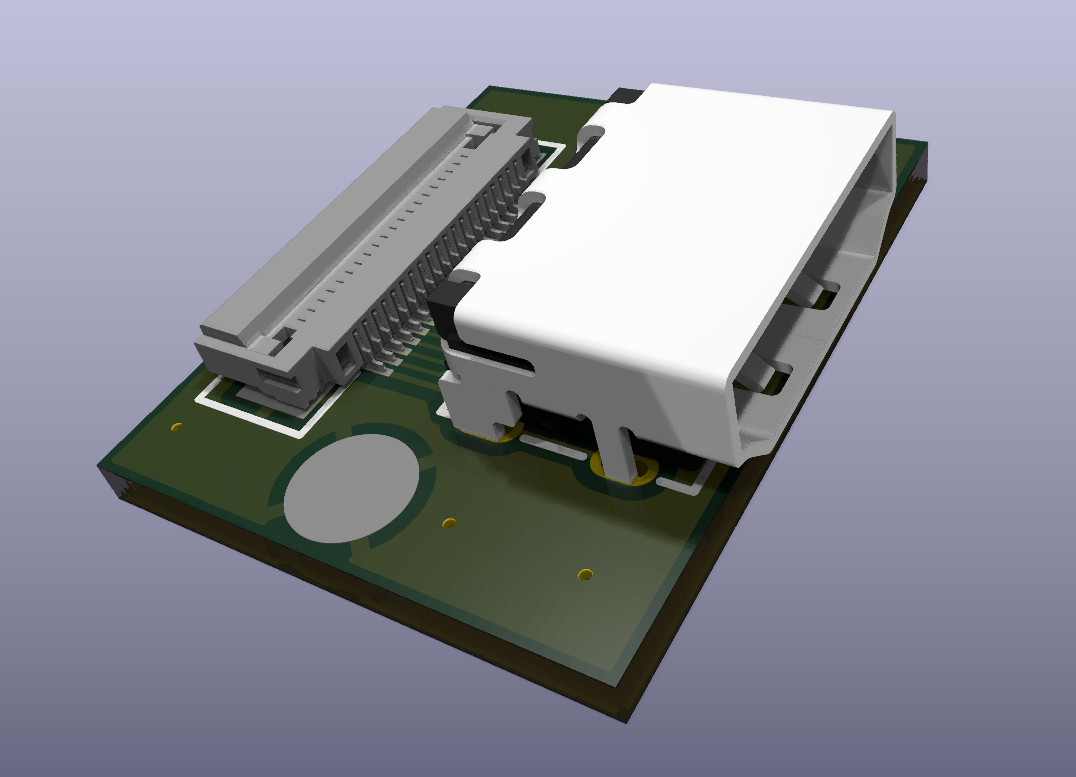
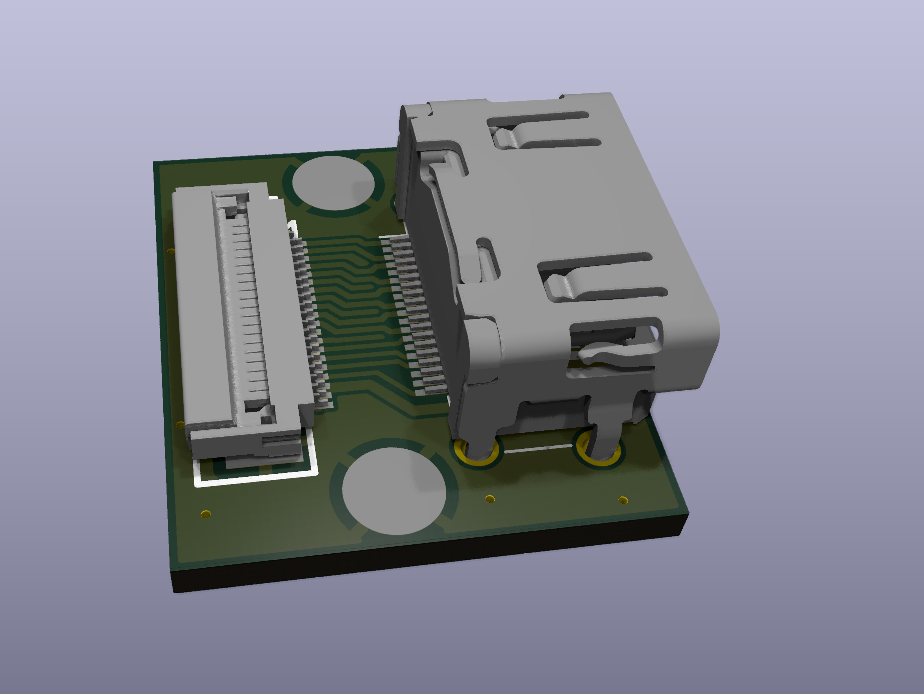
improve boards documentation including links to online interactive viewer (kicanvas)

diff --git a/hardware/README.md b/hardware/README.md
@@ -1,23 +1,25 @@
 # HARDWARE (boards)
 
-Here are the design files for the current 11 boards of this project:  
+Here are the design files for the current boards of this project:  
 
 Processing boards:  
-  * [CPU board](#cpu-board-design)  
-  * [ECP5 FPGA board](#ECP5-fpga-board-design)  
-  * [Spartan-6 FPGA board](#spartan-6-fpga-board)
+  * [CPU board](#cpu-board-design) [_viewer_](https://kicanvas.org/?repo=https%3A%2F%2Fgithub.com%2Fopenconcepts-ar%2Faccel2d%2Ftree%2Fpcbfixes1%2Fhardware%2FCPU_board)  
+  * [ECP5 FPGA board](#ECP5-fpga-board-design) [_viewer_](https://kicanvas.org/?repo=https%3A%2F%2Fgithub.com%2Fopenconcepts-ar%2Faccel2d%2Ftree%2Fpcbfixes1%2Fhardware%2FFPGA_board)  
+  * [Spartan-6 FPGA board](#spartan-6-fpga-board) [_viewer_](https://kicanvas.org/?repo=https%3A%2F%2Fgithub.com%2Fopenconcepts-ar%2Faccel2d%2Ftree%2Fpcbfixes1%2Fhardware%2FSpartan6_board)  
 
 Adapter boards:  
-  * [eDP adapter board](#edp-adapter-design)  
-  * [VGA adapter](#vga-adapter-board-design) & connector  
-  * [LVDS adapters](#lvds-adapter-board-design) single and dual channel  
-  * [DVI adapter](#dvi-adapter-board-design)  
-  * [DVI passive adapter](#dvi-passive-adapter-board-design)  
+  * [eDP adapter board](#edp-adapter-design) [_viewer_](https://kicanvas.org/?repo=https%3A%2F%2Fgithub.com%2Fopenconcepts-ar%2Faccel2d%2Ftree%2Fpcbfixes1%2Fhardware%2FeDP_adapter)  
+  * [eDP adapter board, alternate IC version](#edp-adapter-design) [_viewer_](https://kicanvas.org/?repo=https%3A%2F%2Fgithub.com%2Fopenconcepts-ar%2Faccel2d%2Ftree%2Fpcbfixes1%2Fhardware%2FeDP_adapter%2Fedp_adapterITE)  
+  * [VGA adapter](#vga-adapter-board-design) & connector [_viewer_](https://kicanvas.org/?repo=https%3A%2F%2Fgithub.com%2Fopenconcepts-ar%2Faccel2d%2Ftree%2Fpcbfixes1%2Fhardware%2FVGA_adapter)  
+  * [LVDS adapters](#lvds-adapter-board-design) single and dual channel [_viewer_](https://kicanvas.org/?repo=https%3A%2F%2Fgithub.com%2Fopenconcepts-ar%2Faccel2d%2Ftree%2Fpcbfixes1%2Fhardware%2FLVDS_adapter)  
+  * [DVI adapter](#dvi-adapter-board-design) & connector [_viewer_](https://kicanvas.org/?repo=https%3A%2F%2Fgithub.com%2Fopenconcepts-ar%2Faccel2d%2Ftree%2Fpcbfixes1%2Fhardware%2FDVI_adapter)  
+  * [DVI passive adapter](#dvi-passive-adapter-board-design) [_viewer_](https://kicanvas.org/?repo=https%3A%2F%2Fgithub.com%2Fopenconcepts-ar%2Faccel2d%2Ftree%2Fpcbfixes1%2Fhardware%2FDVI_connector_board)  
+  * [USB to I2C bridge](#usb-to-i2c-bridge) [_viewer_ NOTE: select USBHOST project](https://kicanvas.org/?repo=https%3A%2F%2Fgithub.com%2Fopenconcepts-ar%2Faccel2d%2Ftree%2Fpcbfixes1%2Fhardware%2FTouch_splitter)   
 
 Debugging boards:  
-  * [DVI receiver](#dvi-receiver-board)  
-  * [Touch splitter](#touch-splitter-board)  
-  * [I/O board](#io-board-design)  
+  * [DVI receiver](#dvi-receiver-board) [_viewer_](https://kicanvas.org/?repo=https%3A%2F%2Fgithub.com%2Fopenconcepts-ar%2Faccel2d%2Ftree%2Fpcbfixes1%2Fhardware%2FDVI_receiver)  
+  * [Touch splitter](#touch-splitter-board) [_viewer_](https://kicanvas.org/?repo=https%3A%2F%2Fgithub.com%2Fopenconcepts-ar%2Faccel2d%2Ftree%2Fpcbfixes1%2Fhardware%2FTouch_splitter)  
+  * [I/O board](#io-board-design) [_viewer_](https://kicanvas.org/?repo=https%3A%2F%2Fgithub.com%2Fopenconcepts-ar%2Faccel2d%2Ftree%2Fpcbfixes1%2Fhardware%2FIO_board)  
   
 
 ## CPU board design
@@ -90,17 +92,27 @@ PDF schematics are [here](./Spartan6_board/pcb.pdf).
 
 ## eDP adapter design
 
-This adapter is capable of converting digital RGB parallel signals to embedded display port (eDP) for diredct driving of laptop replacement displays using a standard FPC cable. The converter IC is NCS8801 from NewCoSemi.
+This adapter is capable of converting <s>digital RGB parallel signals NOTE: lack of docs prevents this, see eDP_adapter/EDP.md</s> LVDS signals to eDP protocol for direct driving of laptop replacement displays using a standard FPC cable. The converter IC is NCS8801S from [NewCoSemi](https://www.newcosemi.com/), or IT6251 from [ITE](https://www.ite.com.tw/en) as an alternative. Note they are 4-layer design for better signal integrity, as required by the high-speed differential LVDS inputs and eDP outputs.
 
-The design is done with the open-source EDA tool [Kicad](https://kicad.org), the source files are [here](./eDP_adapter).  
+The design source files are [here](./eDP_adapter).  
 PDF schematics for the adapter are [here](./eDP_adapter/eDP_adapter.pdf).  
   
-This design is relased under a **CERN open-source hardware** license.
 
 <img src="../doc/eDP_adapter3D.png" height=240>  
 <img src="../doc/eDP_adapterFRONT.png" height=240>
-<img src="../doc/eDP_adapterBACK.png" height=240>
+<img src="../doc/eDP_adapterBACK.png" height=240>  
 <img src="../doc/eDP_adapter_layers.png" height=240>  
+
+**Alternate version**:  
+
+<img src="../doc/eDP_adapterITE_3D.png" height=240>  
+<img src="../doc/eDP_adapterITE_FRONT.png" height=240>
+<img src="../doc/eDP_adapterITE_BACK.png" height=240>
+<img src="../doc/eDP_adapterITE_layers.png" height=240>  
+
+The design source files are [here](./eDP_adapter).  
+
+Thiese designs are relased under a **CERN open-source hardware** license, using the the open-source EDA tool [Kicad](https://kicad.org)
 
   
 ## VGA adapter board design
@@ -131,20 +143,29 @@ Features:
 
 The design is done with the open-source EDA tool [Kicad](https://kicad.org), the source files are [here](./LVDS_adapter), licensed under a **CERN open-source hardware** license.  
   
-PDF schematics for the adapter are [here](./LVDS_adapter/LVDS_adapter_schematics.pdf) (single channel) and [here](./LVDS_adapter/LVDS_adapter_2ch.pdf)  (dual channel).  
+PDF schematics for the adapter are [here](./LVDS_adapter/LVDS_adapter_schematics.pdf) (single channel) and [here](./LVDS_adapter/LVDS_adapter_2ch.pdf) (dual channel).  
 
-### Dual channel
+**Dual channel**
 <img src="../doc/LVDS_adapter3D-2ch.png" width=480>  
 <img src="../doc/LVDS_adapterFRONT-2ch.png" width=240>
 <img src="../doc/LVDS_adapterBACK-2ch.png" width=240>  
 <img src="../doc/LVDS_adapter_layers-2ch.png" width=240>  
 
-### Single channel
+**Single channel**
 <img src="../doc/LVDS_adapter3D.png" width=480>  
 <img src="../doc/LVDS_adapterFRONT.png" width=240>
 <img src="../doc/LVDS_adapterBACK.png" width=240>  
 <img src="../doc/LVDS_adapter_layers.png" width=240>  
   
+
+**8-bit dual channel**
+
+This boards outputs a standard 2x15 2mm pitch LVDS connector on the side, supporting 1 or 2 channel, 6- or 8-bit versions. It adds a 6-pin I2C connector on the back for touch signals.  
+<img src="../doc/LVDS_adapter3D-2ch8bit.png" width=480>  
+<img src="../doc/LVDS_adapterFRONT-2ch8bit.png" width=240>
+<img src="../doc/LVDS_adapterBACK-2ch8bit.png" width=240>  
+<img src="../doc/LVDS_adapter_layers-2ch8bit.png" width=240>  
+
 ## DVI adapter board design
 
 This board converts parallel RGB signals to digital video signals in the DVI format, as accepted by the majority of current PC monitors and TVs.
@@ -160,10 +181,15 @@ The design is done with the open-source EDA tool [Kicad](https://kicad.org), the
 PDF schematics for the adapter are [here](./DVI_adapter/DVI_adapter_schematics.pdf).  
 
 <img src="../doc/DVI_adapter3D.png" width=320>
-<img src="../doc/DVI_connector_board3D.png" width=320>  
 <img src="../doc/DVI_adapterFRONT.png" height=160>
 <img src="../doc/DVI_adapterBACK.png" height=160>
 <img src="../doc/DVI_adapter_layers.png" height=160>  
+
+**Connector board**
+  
+This was fixed for better signal integrity using a G-S-S-G scheme for the differential signals, using a pinout that is common in off-the-shelf extension adapters.   
+
+<img src="../doc/DVI_connector_board3D.png" width=320>  
 
 
 ## DVI passive adapter board design
@@ -201,14 +227,24 @@ PDF schematics for the adapter are [here](./DVI_adapter/DVI_adapter_schematics.p
 The touch splitter board allows to split the signals from a 40-pin eDP display woth on-cell touch, separating the 30-pin eDP signals and the USB touch signals. It supports powering the touch model with 5V or 3.3V.
 
 The design is done with the open-source EDA tool [Kicad](https://kicad.org), the source files are [here](./Touch_splitter). 
-  
-PDF schematics are [here](./Touch_splitter/eDP_touch_adapter.pdf).  
 
 <img src="../doc/Touch_splitter3D.png" height=200>  
 <img src="../doc/Touch_splitterFRONT.png" height=200>
 <img src="../doc/Touch_splitterBACK.png" height=200>
 <img src="../doc/Touch_splitter_layers.png" height=200>  
 
+
+## USB to I2C Bridge
+This board is a 40-pin extended eDP with touch to 30-pin with bridged I2C. It is similar top the Touch splitter board, but "active": instead of passively exposing the USB signals to an external connector, it routes them to a MCU.
+  
+The board uses a RP2354 as the MCU wich supports USB full-speeed host (unsing the USB signals on the connector with the additional 10 pins) and outputs I2C data over a usual 30-pin eDP connector. It uses "OEM reserved" pins to route the I2C signals and the interrupt pin. This is received by the eDP adapter which supports touch-enabled display reusing it's 30-pin output FPC connector, being still compatible with non-touch enabled 30-pin displays.
+
+The design is done with the open-source EDA tool [Kicad](https://kicad.org), the source files are [here](./Touch_splitter), see `eDP_touch_adapter_USBHOST.kicad_*` files. 
+
+<img src="../doc/Touch_adapter_USBHOST_3D.png" height=200>  
+<img src="../doc/Touch_adapter_USBHOST_FRONT.png" height=200>
+<img src="../doc/Touch_adapter_USBHOST_BACK.png" height=200>  
+<img src="../doc/Touch_adapter_USBHOST_layers.png" height=200>  
 
 
   
@@ -228,7 +264,10 @@ The design is done with the open-source EDA tool [Kicad](https://kicad.org), the
 
 See most relevant [commit](https://github.com/openconcepts-ar/accel2d/commit/21333764fecb12ceccd276d67593bb1683f1b8bd).  
 
-  * Added [eDP adapter board](#edp-adapter-design)
+  * Added [eDP adapter board](#edp-adapter-design), alternate version
+  * Added [USB to I2C bridge](#usb-to-i2c-bridge)
+  * Added [LVDS adapters, 8-bit version dual channel](#lvds-adapter-board-design)
+  * Updated [eDP adapter board](#edp-adapter-design) to 4 layers
   * Added [Spartan-6 FPGA board](#spartan-6-fpga-board)
   * Added [DVI receiver board](#dvi-receiver-board)
   * Added [Touch splitter board](#touch-splitter-board)
